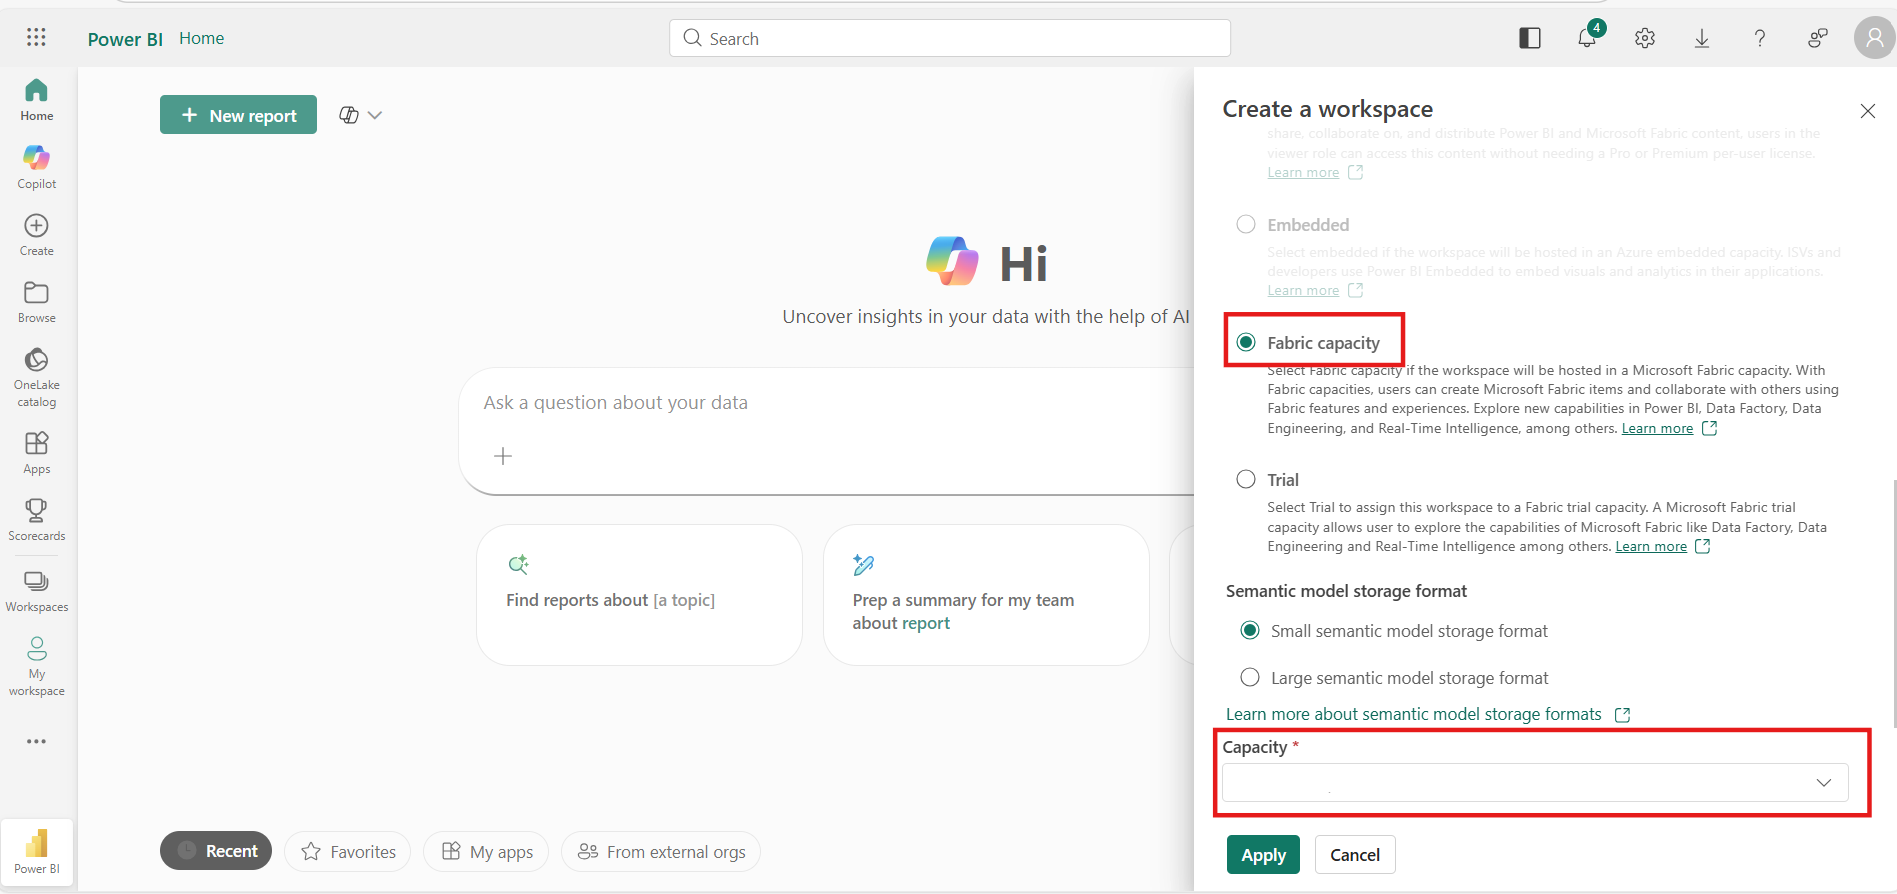
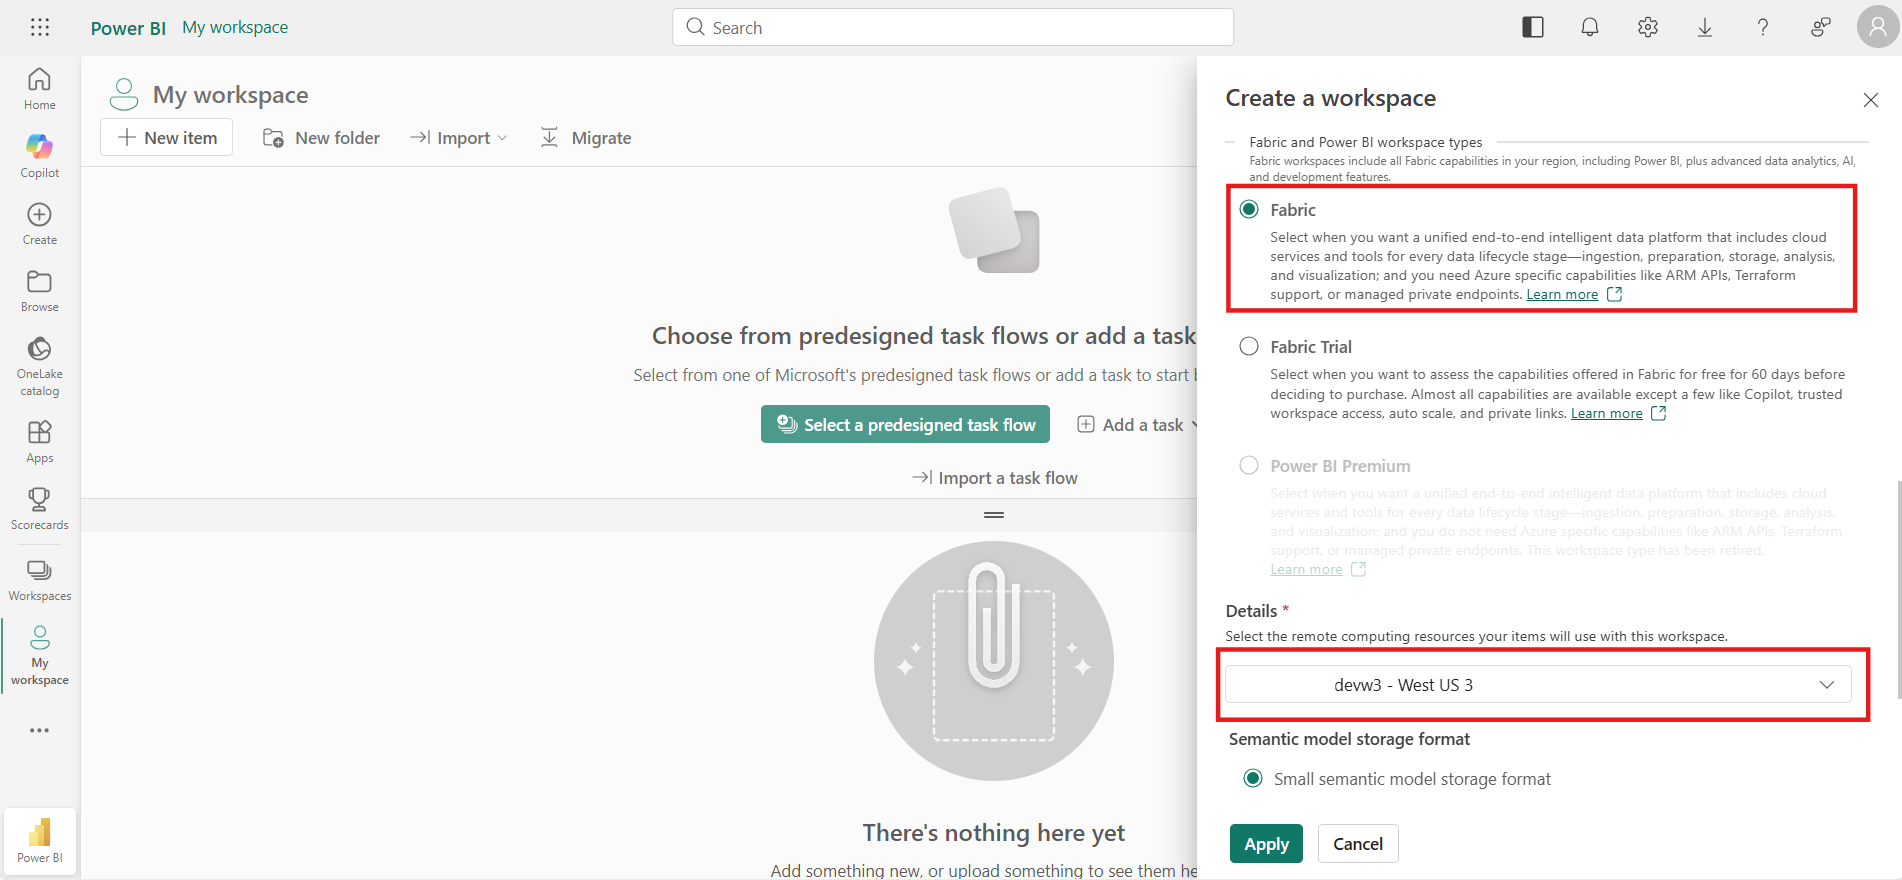
docs: Updated documentation & replaced with new images

diff --git a/workshop/docs/quick-deploy/deployment-guide-optionA.md b/workshop/docs/quick-deploy/deployment-guide-optionA.md
@@ -195,9 +195,10 @@ This sets up entity types (Tickets, Inspections), data bindings from your Lakeho
 ### 7. Test the Fabric Data Agent
 
 1. Go to your [Microsoft Fabric](https://app.fabric.microsoft.com/) workspace
-2. Select "New item" → Search for "Data Agent" → select data agent, provide a name and click create
-3. Add data source → Select your Ontology resource for this workshop
-4. Click Agent instructions from top menu and add the below agent instructions:
+2. Copy the Ontology name from your workspace
+3. Select "New item" → Search for "Data Agent" → select data agent, provide a name and click create
+4. Add data source → Search & select your Ontology resource for this workshop
+5. Click Agent instructions from top menu and add the below agent instructions:
     ```
     You are a helpful assistant that can answer user questions using data.
     Support group by in GQL.

diff --git a/workshop/docs/01-deploy/04-run-scenario.md b/workshop/docs/01-deploy/04-run-scenario.md
@@ -53,10 +53,11 @@ This sets up entity types (Tickets, Inspections), data bindings from your Lakeho
 
 ## Test the Fabric Data Agent
 1. Go to your [Microsoft Fabric](https://app.fabric.microsoft.com/) workspace
-2. Select "New item" 
-3. Search for and select "Data Agent" 
-4. Select add data source and select your Ontology resource created in the previous step. 
-5. Select Agent instructions and paste the below instructions. 
+2. Copy the Ontology name from your workspace
+3. Select "New item" 
+4. Search for and select "Data Agent" 
+5. Select add data source and search & select your Ontology resource created in the previous step. 
+6. Select Agent instructions and paste the below instructions. 
 ``` 
 You are a helpful assistant that can answer user questions using data.
 Support group by in GQL.

diff --git a/workshop/docs/01-deploy/02b-create-fabric-workspace.md b/workshop/docs/01-deploy/02b-create-fabric-workspace.md
@@ -33,8 +33,8 @@ Create a Microsoft Fabric workspace and link it to your Fabric capacity.
 
 6. Expand the **Advanced** section and configure the license:
 
-    - Under **License mode**, select **Fabric capacity**.
-    - Under **Capacity**, select the Fabric capacity you created (or an existing one).
+    - Under **Fabric and Power BI workspace types**, select **Fabric capacity**.
+    - Under **Details**, select the Fabric capacity you created (or an existing one).
 
     ![Configure workspace license and capacity](../assets/fabric/11-workspace-license.png)
 

diff --git a/workshop/docs/01-deploy/02-setup-fabric.md b/workshop/docs/01-deploy/02-setup-fabric.md
@@ -43,12 +43,12 @@ If you need to create a new Fabric workspace, follow the instructions here:
 
     ![Open workspace settings](../assets/fabric/13-workspace-settings.png)
 
-3. Go to **License info** and verify:
+3. Go to **Workspace type** and verify:
 
     - [x] The workspace is assigned to a **Fabric capacity**
     - [x] The capacity SKU is **F8** or higher
 
-    ![Verify license info](../assets/fabric/14-license-info.png)
+    ![Verify Workspace type](../assets/fabric/14-license-info.png)
 
 ---
 
